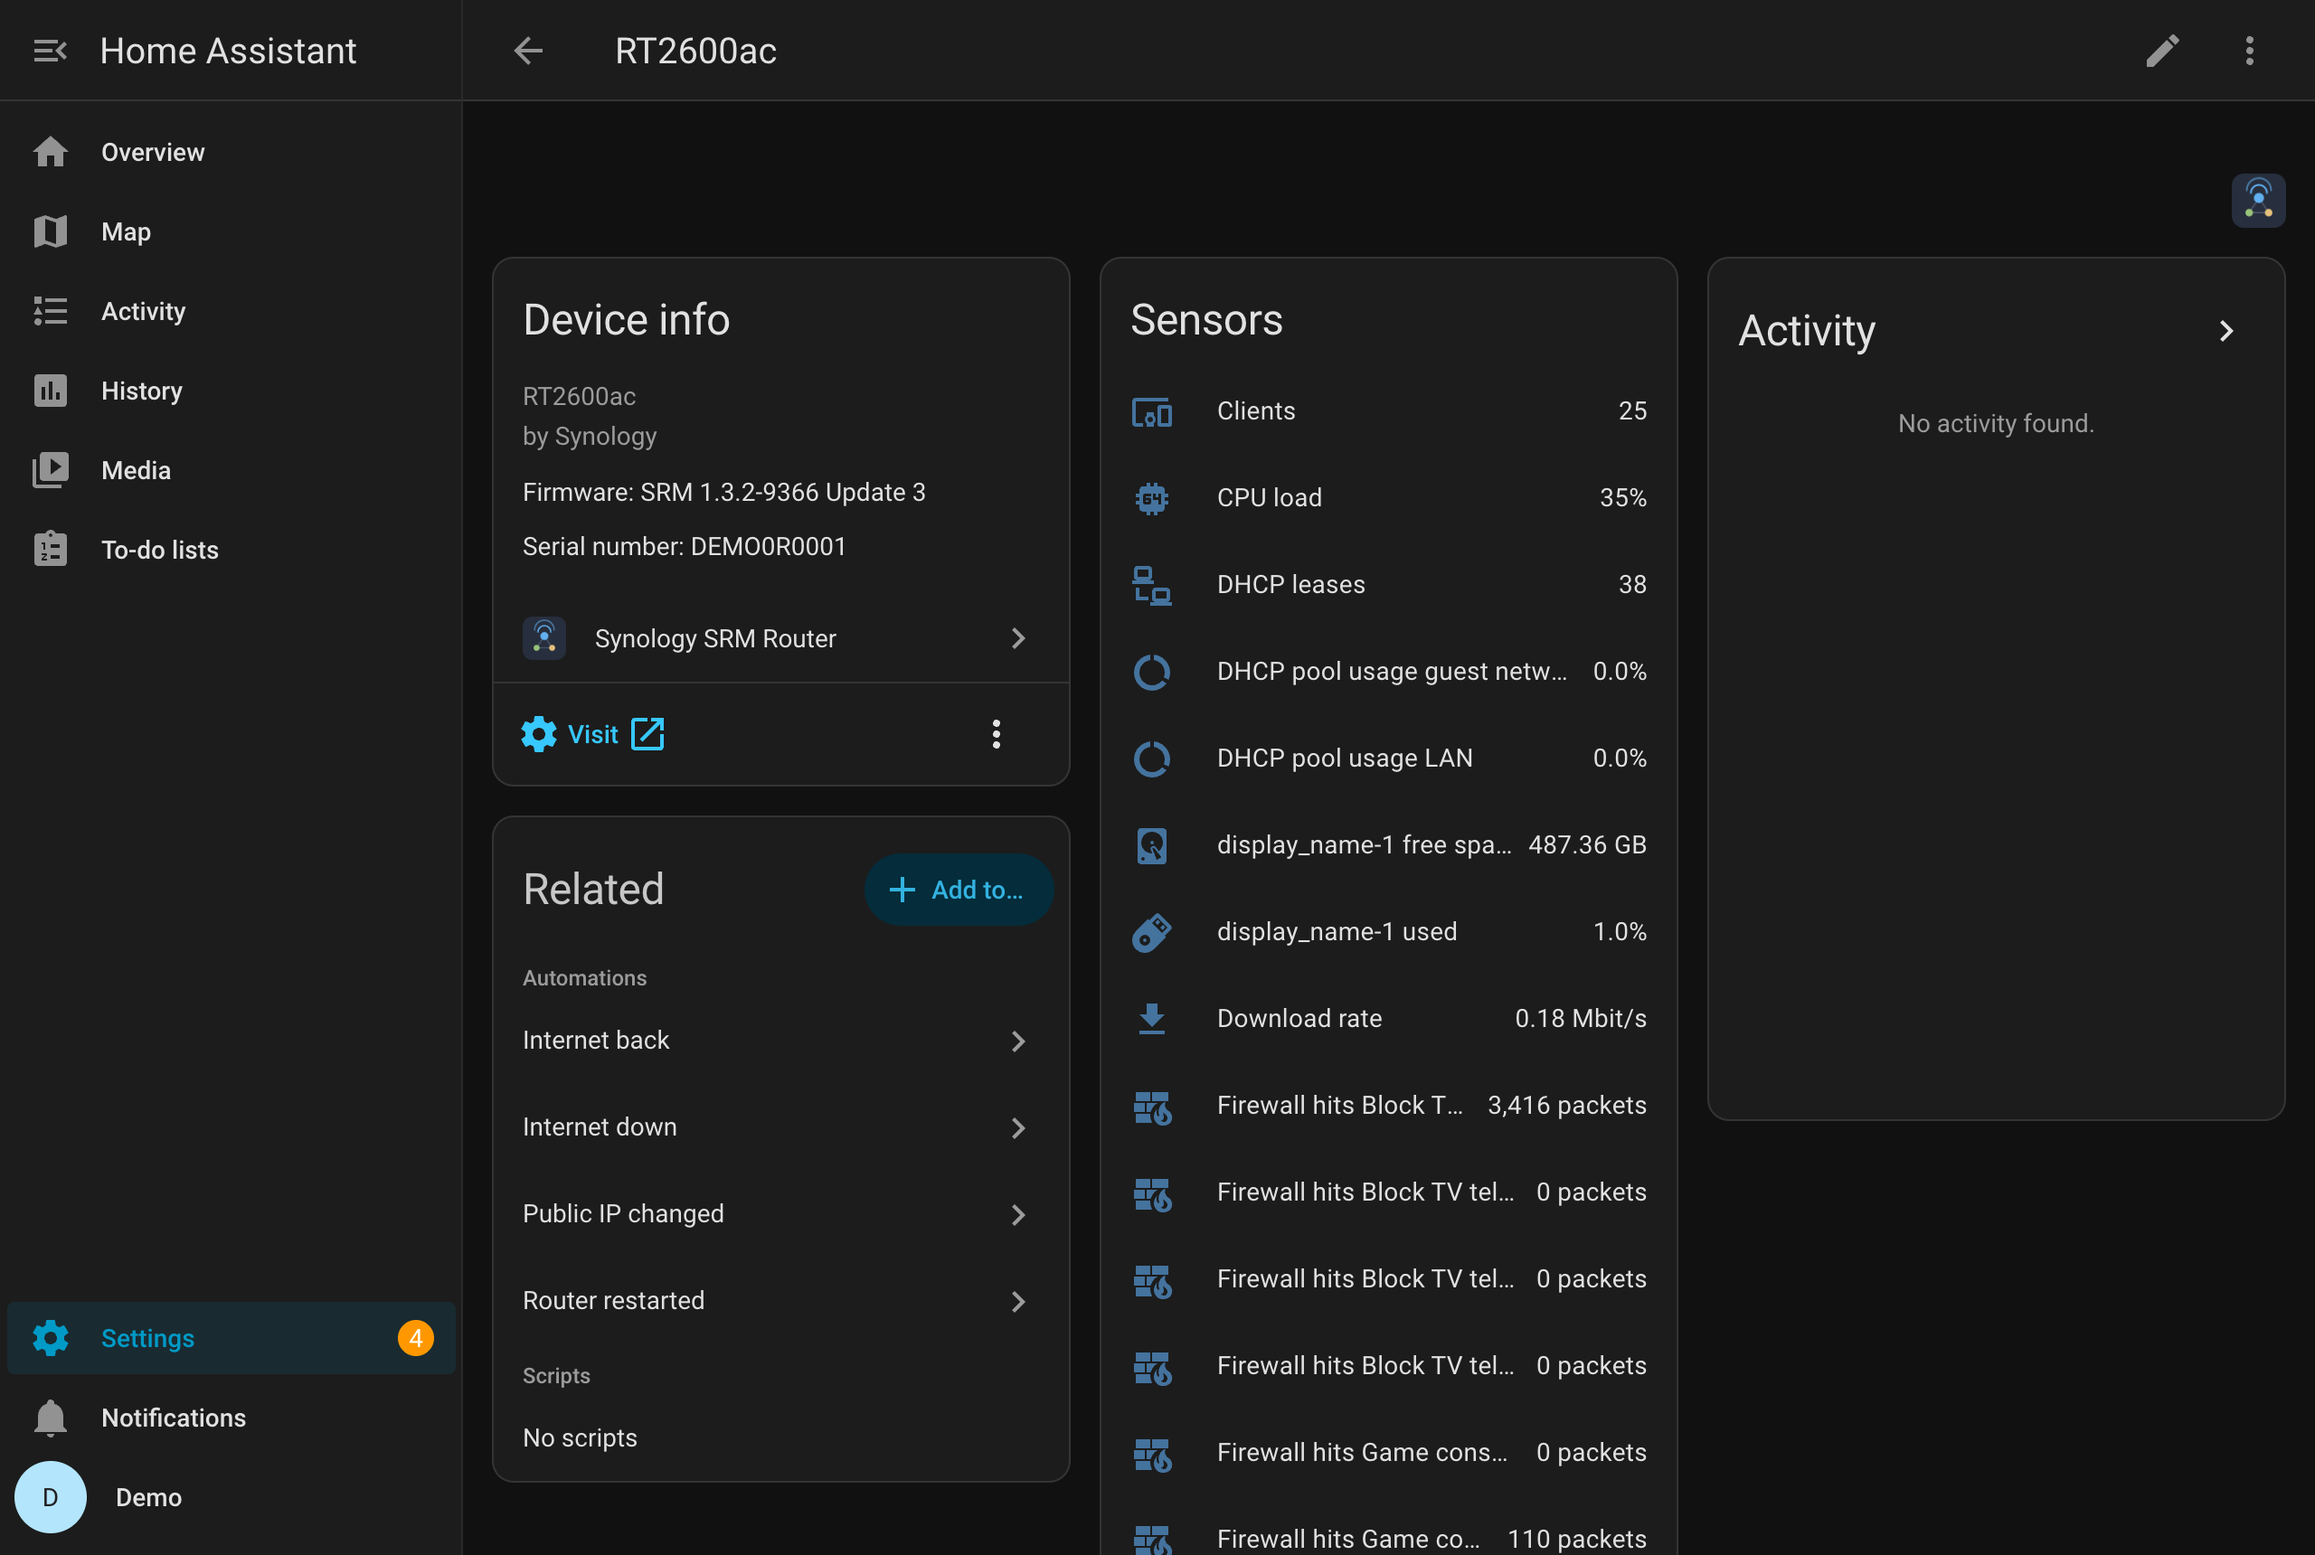
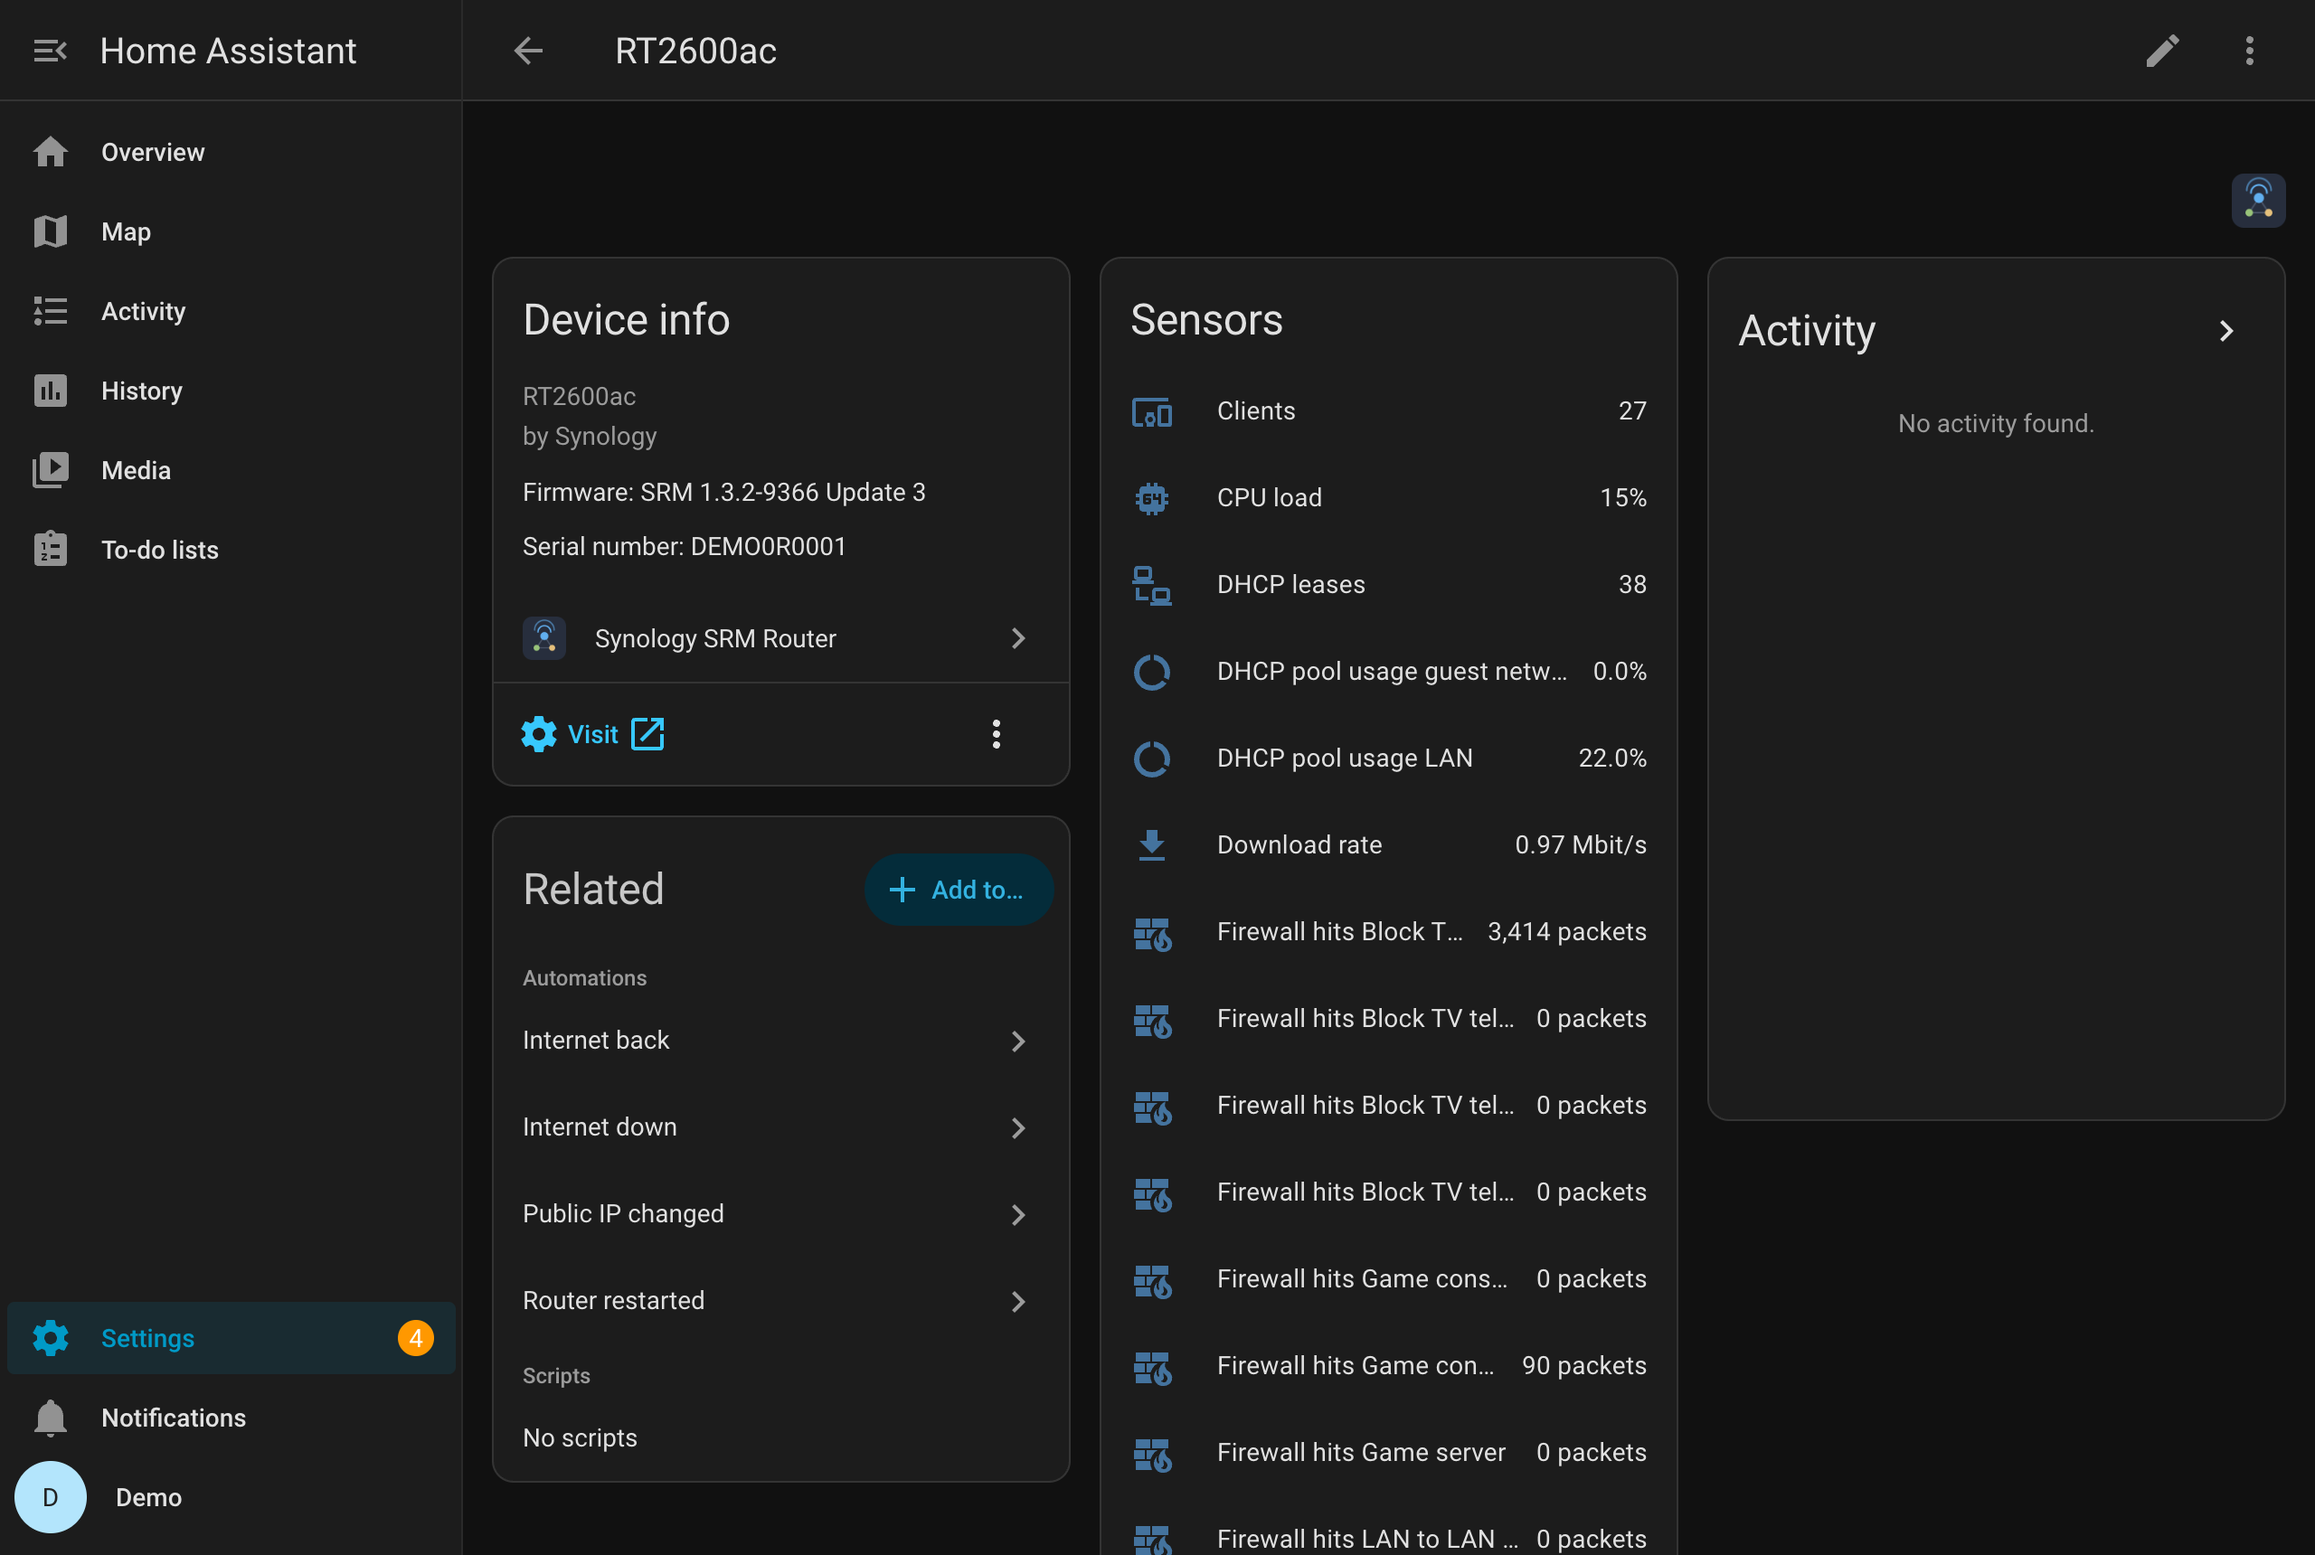
docs: screenshots with clients per band and named firewall rules; readable demo values

diff --git a/scripts/demo/fake_srm.py b/scripts/demo/fake_srm.py
@@ -221,6 +221,13 @@ def device_app(folder: Path, names: dict[str, str]) -> web.Application:
         for key, (name, _, _) in APIS.items()
     }
     answers[("SYNO.Core.System", "info")]["serial"] = SERIALS[folder.name]
+    # Readable stand-ins for anonymized values that show in screenshots: the USB volume's name,
+    # and DHCP pools wide enough to hold the recorded leases.
+    for volume in answers[("SYNO.Core.Storage.Volume", "list")]["volumes"]:
+        volume["display_name"] = "USB drive"
+    for server in answers[("SYNO.Core.Network.DHCPServer", "get")]["data"]:
+        if server.get("ifname") == "lbr0" and server.get("ipv4"):
+            server["ipv4"].update(begin="192.0.2.1", end="192.0.2.200")
     rules = answers[("SYNO.Core.Security.Firewall.Rules", "get")]["rules"]
     for rule, name in zip(rules, RULE_NAMES, strict=False):
         rule["name"] = name
